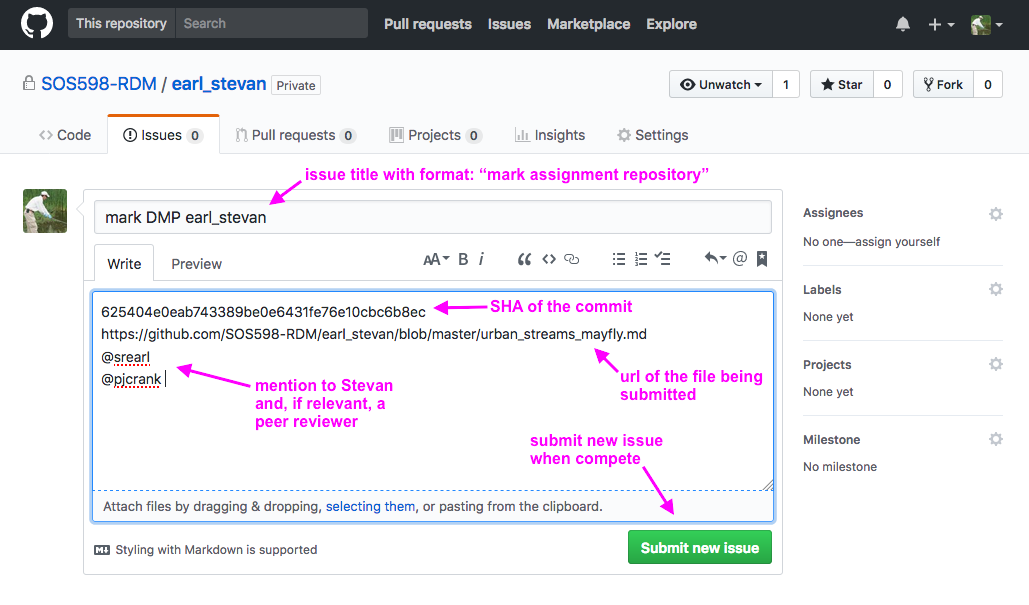
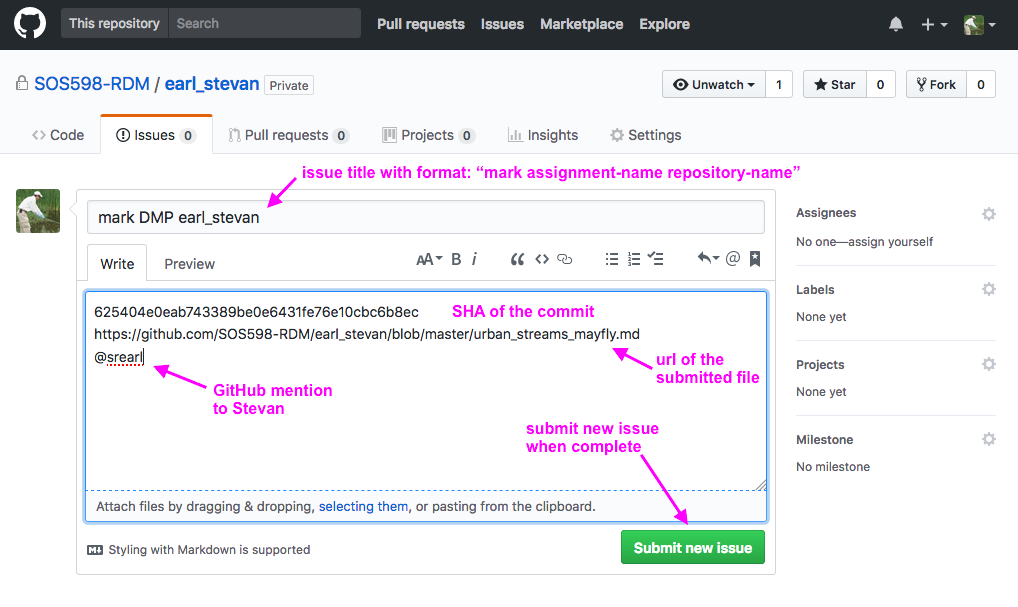
added peer review

diff --git a/README.md b/README.md
@@ -10,11 +10,11 @@ The general workflow to submitting assignments and addressing peer reviews is ou
 
 **overview of steps**
 1. [clone your GitHub repository](https://github.com/SOS598-RDM/assignment_submission_workflow#clone-your-github-repository)
-2. populate your repository
-3. add/stage, commit
-4. push files to your GitHub repository
-5. open a GitHub issue when assignment is complete
-6. submit peer review by opening a GitHub issue
+2. [populate your repository](https://github.com/SOS598-RDM/assignment_submission_workflow#populate-your-repository)
+3. [add/stage, commit](https://github.com/SOS598-RDM/assignment_submission_workflow#addstage-commit)
+4. [push files to your GitHub repository](https://github.com/SOS598-RDM/assignment_submission_workflow#push-files-to-your-github-repository)
+5. [open a GitHub issue when the assignment is complete](https://github.com/SOS598-RDM/assignment_submission_workflow#open-a-github-issue-when-assignment-is-complete)
+6. [submit peer review by opening a GitHub issue](https://github.com/SOS598-RDM/assignment_submission_workflow#submit-peer-review-by-opening-a-github-issue)
 
 ## clone your GitHub repository
 
@@ -176,16 +176,37 @@ To create an issue, first click on the *Issues* tab in the repository, then clic
 **creating an Issue in our GitHub repository**
 ![issues-tab](figures/issues-tab.png)
 
-The title of our issue should have the format *mark assignment repository name*, so, for example, if this were the DMP assignment, this issue should have the title *mark DMP earl\_stevan*. The body of the issue should contain the SHA of the commit, and the url to the file that you are submitting. Finally, the body of the issue should include a mention to Stevan using his GitHub user name (srearl), and, if the assignment is one that is to be peer-reviewed, a mention to the GitHub user name of your peer reviewer (these will be provided). Mentions send a notification to the addressee alerting them of GitHub activity. Like some other social-media platforms (e.g., Twitter), mentions in GitHub use the @user-name format. When complete, submit the issue by clicking the green *Submit new issue* button.
+The title of our issue should have the format *mark assignment repository name*, so, for example, if this were the DMP assignment, this issue should have the title *mark DMP earl\_stevan*. The body of the issue should contain the SHA of the commit, and the url to the file that you are submitting, and a *mention* to Stevan using his GitHub user name (srearl). Mentions send a notification to the addressee alerting them of GitHub activity. Like some other social-media platforms (e.g., Twitter), mentions in GitHub use the @user-name format. When complete, submit the issue by clicking the green *Submit new issue* button.
 
 **populating and submitting our Issue**
 ![completed-issue](figures/completed-issue.png)
 
 We now see that there is one issue in the *Issues* tab of our repository.
 
-**Our repository now has one issue**
+**our repository now has one issue**
 ![one-new-issue](figures/one-new-issue.png)
 
 This concludes the steps for submitting your assignment. Please see the next section for addressing the peer review.
 
 ## submit peer review by opening a GitHub issue
+
+Several of the assignments planned for the RDM course have a peer-review component. For these assignments, after assignment submission, we will randomly assign each student to review the work of a peer. Each peer-review assignment will take the form of an issue that is assigned to the reviewer. This is somewhat opposite the flow of the GitHub issue created when submitting your assignment in that we will create an issue that is assigned to the reviewer.
+
+We can see how this will work with our example repository.
+
+Upon receiving your GitHub mention that you have submitted your assignment (per the above step), Stevan will create a new issue assigned (as an issue *Assignee*) to a random peer. I am assigning myself as the Assignee in the example screenshot below but this would normally be the GitHub user name of one of your peers. To be clear, this is a step that the course instructors will address and is included here only to explain the process.
+
+**peer review assignment**
+![assign-peer-review](figures/assign-peer-review.png)
+
+Okay, so the instructors create a new issue for each submitted assignment and assign a random peer to review that assignment. In this setup, the reviewer is the *Assignee* assigned to that issue - the Assignee will will receive a notification when that issue is created. When you (the reviewer/Assignee) receive a notification (see here if you have not configured your notification settings in GitHub to receive notifications by email) that the issue has been created, navigate to the issue in GitHub, which will look something like the screenshot below. There are several ways to address the content of the review:
+* write the text in a text editor then copy it into the comment box
+* type directly into the comment box
+* attach a file to the issue with the review content (GitHub allows GIF, JPEG, JPG, PNG, DOCX, GZ, LOG, PDF, PPTX, TXT, XLXS, and ZIP files as issue attachments
+
+The instructors would prefer that you please submit your review through the comment box either by copying and pasting from another file or typing directly into the comment box, but know that it is possible to attach files to GitHub issues. Before submitting the review, please be sure to include a mention to Stevan (@srearl) in the comment box.
+
+**an assigned issue**
+![assigned-issue](figures/assigned-issue.png)
+
+
